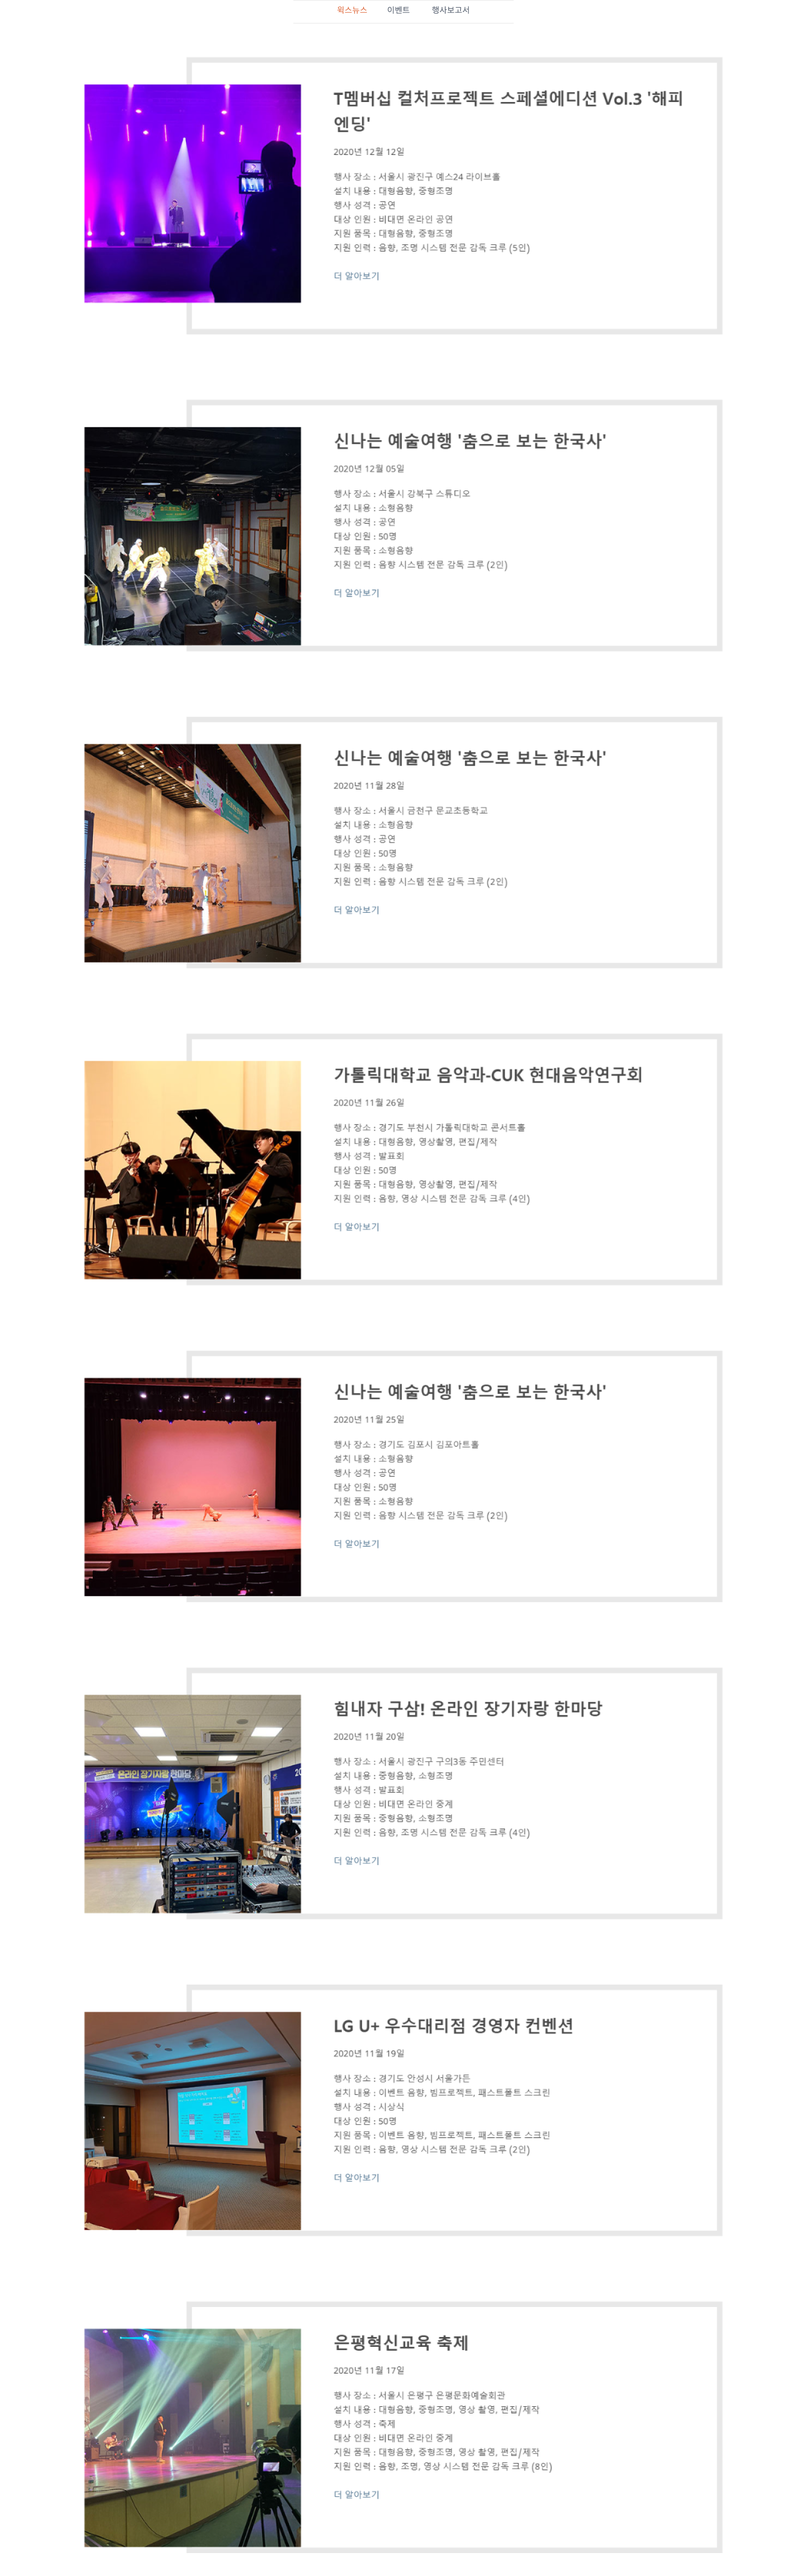
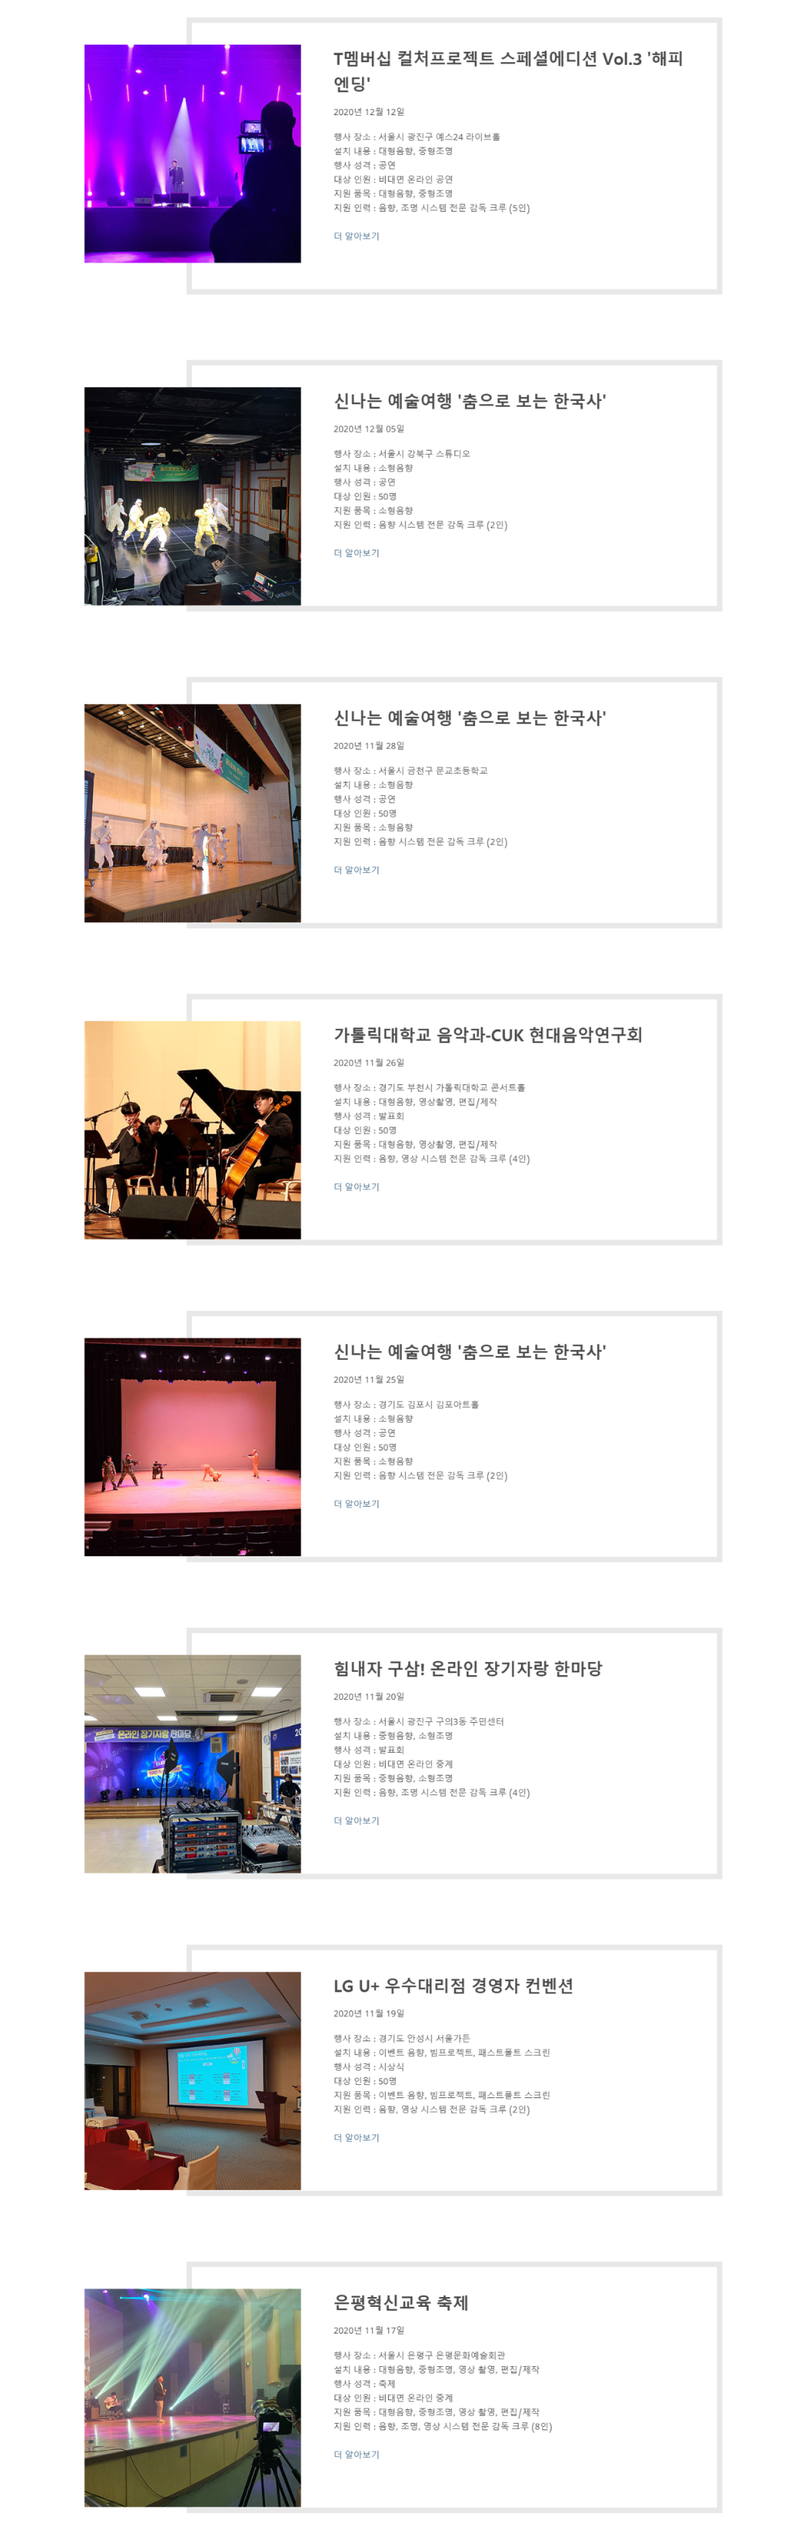
.

diff --git a/04_company/css/style.css b/04_company/css/style.css
@@ -154,13 +154,31 @@
 .Sub-img img { width: 100%; height: 100%; position: relative; }
 .Sub-img h1 { position: absolute; color:#fff; font-size:50px; top: 150px; left: 50%; z-index: 1; transform:translate(-50%) }
 
-.Sub-container { width: 100%; }
-.Sub-container .Sub-content { width: 100%; margin: 0 auto; }
+.Sub-container { width: 1240px; margin: 0 auto; }
+.Sub-container .Sub-content { width: 100%; }
 .Sub-container .Sub-content .img-company { width: 100%; height: 2000px; background-image: url(../images/회사소개.png); background-position: center; background-repeat: no-repeat;}
-.Sub-container .Sub-content h1 { text-align: center; color:#4A4A4A; font-size:40px; margin: 80px 0 30px 0 }
+.Sub-container .Sub-content h1 { text-align: center; color:#4A4A4A; font-size:40px; margin: 30px 0 30px 0 }
 .Sub-container .Sub-content h2 { text-align: center; color:#4A4A4A; font-size:20px; margin-bottom: 50px; }
 
-.Sub-container .Sub-content h1 { width:100%; font-size:25px; margin-top: 30px; }
+.Sub-container .Sub-content ul { position:absolute; left:50%; transform:translateX(-50%); }
+.Sub-container .Sub-content li { border-top: 1px solid #E8E8E8; border-bottom: 1px solid #E8E8E8; float: left; }
+.Sub-container .Sub-content li a { display:block; padding: 15px; color:#4A4A4A; }
+.Sub-container .Sub-content li:hover a { color:#DE6436; }
+
+.Sub-container .root { margin-top: 20px; margin-bottom: 40px; margin-left: 10px; }
+.Sub-container .root>ul>li {
+  float: left; position: relative; padding-right: 30px; line-height: 24px;
+}
+.Sub-container .root>ul>li:after {
+  content:''; display: block; width: 24px; height: 24px;
+  background-image: url(../images/arrow.png);
+  position: absolute; right:0; top: 0;
+}
+.Sub-container .root>ul>li:last-child:after {display: none;}
+
+.Sub-content ul li .click { color:#de6436; background: #F7F7F7; }
+
+
 
 /* company */
 .Sub-container .Sub-content .img-company01 { width: 100%; height: 2000px; background-image: url(../images/회사소개.png); background-position: center; background-repeat: no-repeat; }

diff --git a/04_company/rental.html b/04_company/rental.html
@@ -42,13 +42,30 @@
       </nav>
     </div>
   <div class="Sub-img">
-    <h1>윅스시스템</h1><img src="images/subimg02.png" alt="">
+    <h1>렌탈시스템</h1><img src="images/subimg02.png" alt="">
   </div>
   </header>
   <div class="Sub-container">
+    <div class="root">
+        <ul class="clearfix">
+          <li class="home"><a href="index.html"><img src="images/home.png" alt="home"></a></li>
+          <li class="dep1">렌탈시스템</li>
+          <li class="dep1">음향</li>
+        </ul>
+      </div>
     <div class="Sub-content">
-      <h1>음향</h1><div class="img-company02"></div>
+      <h1>음향</h1>
+      <ul>
+        <li><a href="#" class="click">음향</a></li>
+        <li><a href="#">무대</a></li>
+        <li><a href="#">조명</a></li>
+        <li><a href="#">영상</a></li>
+        <li><a href="#">특수효과</a></li>
+        <li><a href="#">파티</a></li>
+      </ul>
+      <div class="img-company02"></div>
     </div>
+
   </div>
   <div id="footer">
     <div class="ft-wrap">

diff --git a/04_company/inquiry.html b/04_company/inquiry.html
@@ -42,12 +42,20 @@
       </nav>
     </div>
   <div class="Sub-img">
-    <h1>윅스시스템</h1><img src="images/subimg06.png" alt="">
+    <h1>렌탈견적문의</h1><img src="images/subimg06.png" alt="">
   </div>
   </header>
   <div class="Sub-container">
+    <div class="root">
+        <ul class="clearfix">
+          <li class="home"><a href="index.html"><img src="images/home.png" alt="home"></a></li>
+          <li class="dep1">렌탈견적문의</li>
+        </ul>
+      </div>
     <div class="Sub-content">
-      <h1>윅스시스템과 파트너가 되어보세요.</h1> <h2>이메일을 계정에 연결하여 다양한 이벤트 혜택을 받아보세요.</h2><div class="img-company06"></div>
+      <h1>어떠한 비즈니스라도 윅스시스템과 함께.</h1>
+      <h2>윅스시스템에서 렌탈 문의와 상담은 언제나 환영합니다.</h2>
+      <div class="img-company06"></div>
     </div>
   </div>
   <div id="footer">

diff --git a/04_company/portfolio.html b/04_company/portfolio.html
@@ -42,12 +42,25 @@
       </nav>
     </div>
   <div class="Sub-img">
-    <h1>윅스시스템</h1><img src="images/subimg03.png" alt="">
+    <h1>포트폴리오</h1><img src="images/subimg03.png" alt="">
   </div>
   </header>
   <div class="Sub-container">
+    <div class="root">
+        <ul class="clearfix">
+          <li class="home"><a href="index.html"><img src="images/home.png" alt="home"></a></li>
+          <li class="dep1">포트폴리오</li>
+          <li class="dep1">윅스뉴스</li>
+        </ul>
+      </div>
     <div class="Sub-content">
-      <h1>윅스뉴스</h1><div class="img-company03"></div>
+      <h1>윅스뉴스</h1>
+      <ul>
+        <li><a href="#" class="click">윅스뉴스</a></li>
+        <li><a href="#">이벤트</a></li>
+        <li><a href="#">행사보고서</a></li>
+      </ul>
+      <div class="img-company03"></div>
     </div>
   </div>
   <div id="footer">

diff --git a/04_company/news.html b/04_company/news.html
@@ -42,12 +42,24 @@
       </nav>
     </div>
   <div class="Sub-img">
-    <h1>윅스시스템</h1><img src="images/subimg04.png" alt="">
+    <h1>새로운 소식</h1><img src="images/subimg04.png" alt="">
   </div>
   </header>
   <div class="Sub-container">
+    <div class="root">
+        <ul class="clearfix">
+          <li class="home"><a href="index.html"><img src="images/home.png" alt="home"></a></li>
+          <li class="dep1">새로운 소식</li>
+          <li class="dep1">윅스뉴스</li>
+        </ul>
+      </div>
     <div class="Sub-content">
-      <h1>윅스뉴스</h1><div class="img-company04"></div>
+      <h1>윅스뉴스</h1>
+      <ul>
+        <li><a href="#" class="click">윅스뉴스</a></li>
+        <li><a href="#">뉴스</a></li>
+        <li><a href="#">행사보고서</a></li>
+      </ul><div class="img-company04"></div>
     </div>
   </div>
   <div id="footer">

diff --git a/04_company/partner.html b/04_company/partner.html
@@ -42,12 +42,20 @@
       </nav>
     </div>
   <div class="Sub-img">
-    <h1>윅스시스템</h1><img src="images/subimg05.png" alt="">
+    <h1>파트너 프로그램</h1><img src="images/subimg05.png" alt="">
   </div>
   </header>
   <div class="Sub-container">
+    <div class="root">
+        <ul class="clearfix">
+          <li class="home"><a href="index.html"><img src="images/home.png" alt="home"></a></li>
+          <li class="dep1">파트너 프로그램</li>
+        </ul>
+      </div>
     <div class="Sub-content">
-      <h1>회사소개</h1><div class="img-company05"></div>
+      <h1>윅스시스템과 파트너가 되어보세요.</h1>
+      <h2>이메일을 계정에 연결하여 다양한 이벤트 혜택을 받아보세요.</h2>
+      <div class="img-company06"></div>
     </div>
   </div>
   <div id="footer">

diff --git a/04_company/js/script.js b/04_company/js/script.js
@@ -8,6 +8,10 @@ $(document).ready(function(){
     $(this).addClass("on").siblings().removeClass("on");
   });
 
+  $(".Sub-content ul li").click(function(){
+    $(this).addClass("click").siblings().removeClass("click");
+  })
+
   $(".toggleMenu").click(function(){
     const toggle = $(".toggleMenu").attr("class");
     if(toggle == "toggleMenu"){
@@ -33,4 +37,6 @@ $(document).ready(function(){
     innerWidth:700,
     innerHeight:393.75
   });
+
+
 });

diff --git a/04_company/company.html b/04_company/company.html
@@ -46,6 +46,13 @@
   </div>
   </header>
   <div class="Sub-container">
+    <div class="root">
+        <ul class="clearfix">
+          <li class="home"><a href="index.html"><img src="images/home.png" alt="home"></a></li>
+          <li class="dep1">윅스시스템</li>
+          <li class="dep1">회사소개</li>
+        </ul>
+      </div>
     <div class="Sub-content">
       <h1>회사소개</h1><div class="img-company01"></div>
     </div>

diff --git a/04_company/css/responsive.css b/04_company/css/responsive.css
@@ -72,6 +72,8 @@
 
 
   /* mobile */
+  .Sub-container { width: 100%; }
+  .Sub-container .Sub-content li a { padding: 5px; }
   .Sub-img { height: 100%; }
   .Sub-img img { width: 100%; height: 300px; }
   .Sub-img h1 { font-size:35px; }
